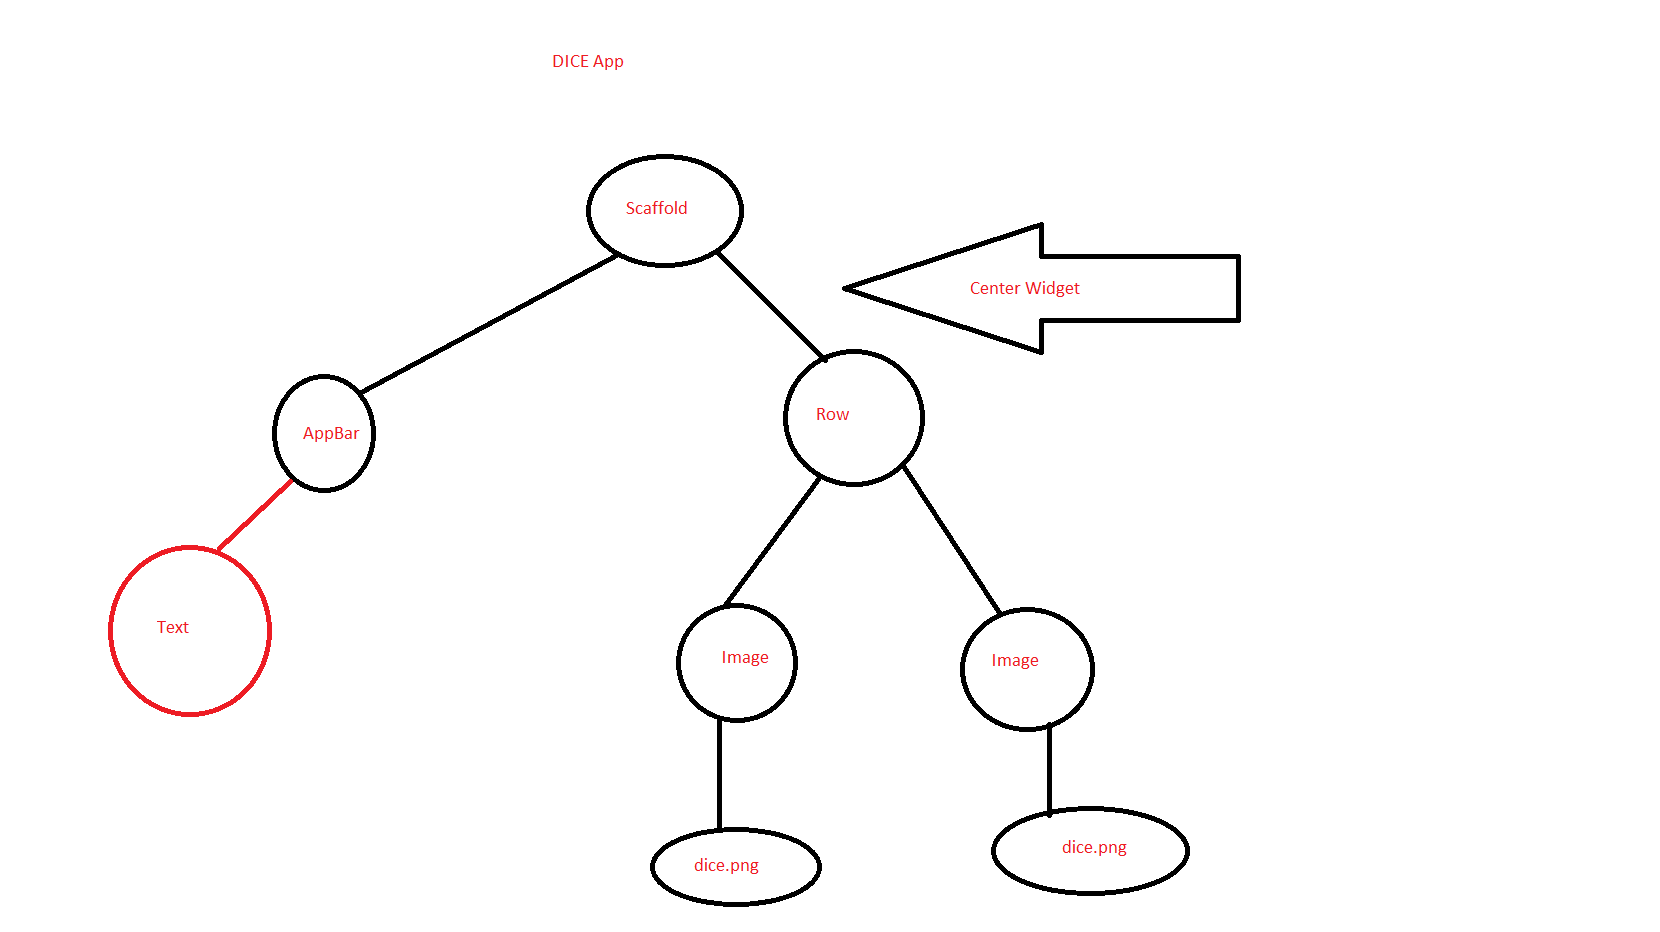
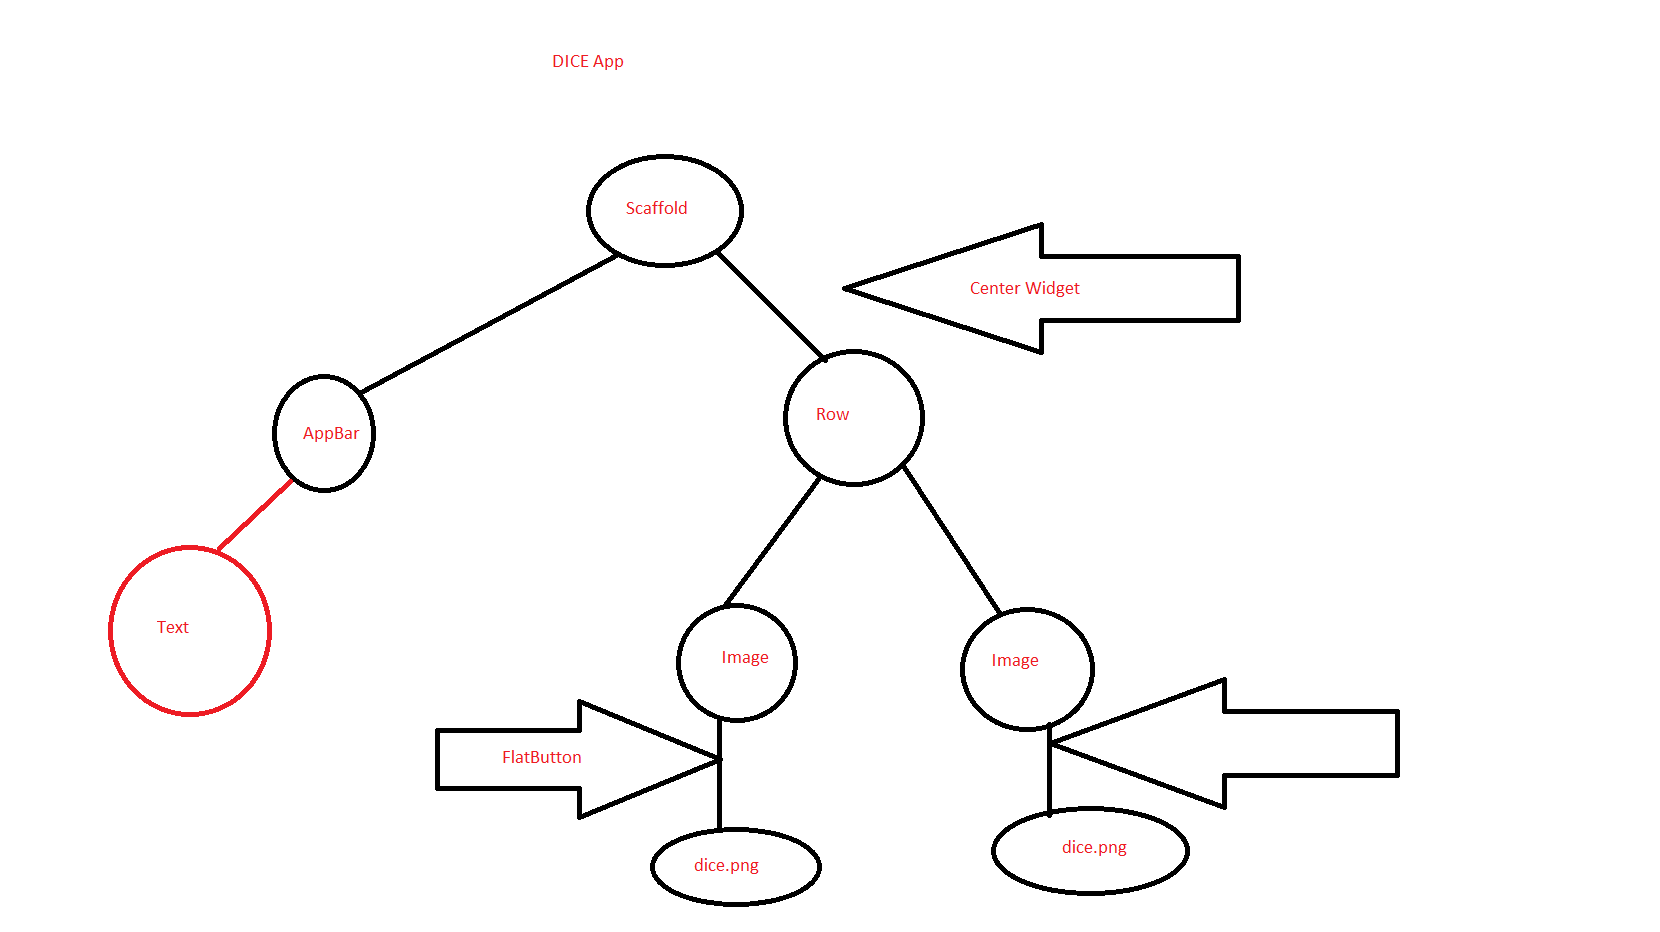
TextButton Added with no functionality. Padding removed from image objects.

diff --git a/DiceApp/lib/main.dart b/DiceApp/lib/main.dart
@@ -23,15 +23,15 @@ class DicePage extends StatelessWidget {
         children: <Widget>[
           Expanded(
             //flex: 2,
-            child: Padding(
-              padding: const EdgeInsets.all(16.0),
+            child: TextButton(
+              onPressed: () {},
               child: Image.asset('images/dice-1.png'),
             ),
           ),
           Expanded(
             //flex: 1,
-            child: Padding(
-              padding: const EdgeInsets.all(16.0),
+            child: TextButton(
+              onPressed: () {},
               child: Image.asset('images/dice-2.png'),
             ),
           ),
